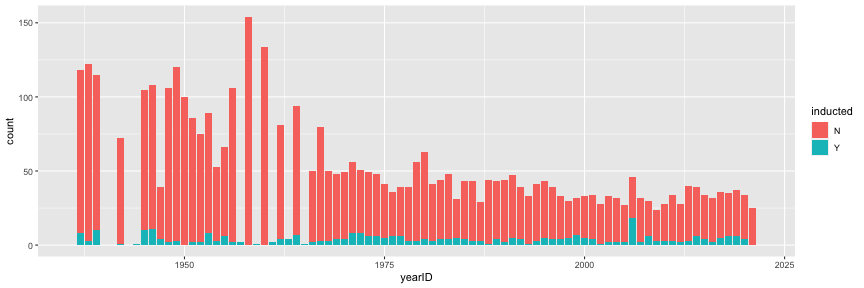
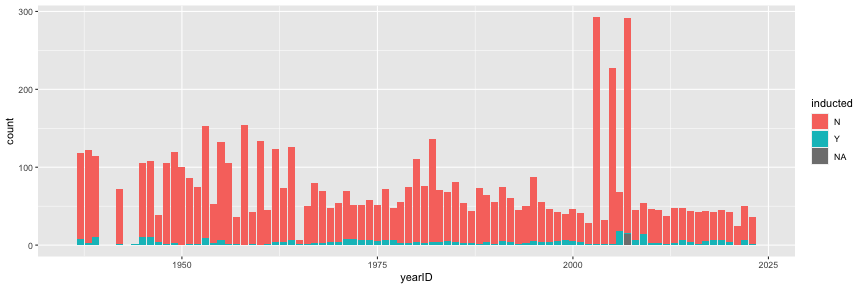
update lab 4

diff --git a/lab04.html b/lab04.html
@@ -1,7 +1,7 @@
 <!DOCTYPE html>
 <html lang="" xml:lang="">
   <head>
-    <title>DS 202 - lab #4: Scraping (into) the Hall of Fame</title>
+    <title>DS 2020 - lab #4: Scraping (into) the Hall of Fame</title>
     <meta charset="utf-8" />
     <meta name="author" content="Will Ju" />
     <script src="libs/header-attrs-2.25/header-attrs.js"></script>
@@ -13,7 +13,7 @@
 class: center, middle, inverse, title-slide
 
 .title[
-# DS 202 - lab #4: Scraping (into) the Hall of Fame
+# DS 2020 - lab #4: Scraping (into) the Hall of Fame
 ]
 .author[
 ### Will Ju
@@ -33,7 +33,7 @@ background-image: url(images/hof.jpg)
 
 # Big Picture Goal
 
-We are going to contribute an extension of the Hall of Fame data in the Lahman data package for the year 2024.
+We are going to contribute an extension of the Hall of Fame data in the Lahman data package for the year 2025.
 
 # Step-by-Step
 
@@ -46,7 +46,7 @@ In this activity we are going to
     b. and - as much as possible - clean the data automatically, or at least identify potential problems, to, finally, 
     c. use the scrapers in future years
     
-3. use the scraper to get data for the year 2024.
+3. use the scraper to get data for the year 2025.
 4. document the process. 
 
 The deliverables are (1) individual reports (Rmd) and (2) the dataset.
@@ -57,8 +57,7 @@ The deliverables are (1) individual reports (Rmd) and (2) the dataset.
 
 1. Identify your team! Go to Canvas and find out which team you are in for Lab 4.
 
-2. If you are participating remotely, find your teammates via Slack / email. You can use any platform for collaboration that works for you all (Microsoft Teams, discord, WebEx, Zoom, etc)
-If you are in the classroom, find the other members of your team and sit with them.
+2. Find the other members of your team and sit with them.
 
 3. Introduce yourself to each other. 
 
@@ -76,11 +75,11 @@ If you are in the classroom, find the other members of your team and sit with th
 
 2. Start a new RStudio project on your local machine using the link to the github repository. (Connect your local R project to your Github repo)
 
-3. Create a new RMarkdown file called `progress-report-&lt;your github handle&gt;.Rmd` (Mine would be called `progress-report-willju-wangqian.Rmd`). Delete everything from line 12 on. 
+3. For each individual, create a new RMarkdown file called `progress-report-&lt;your github handle&gt;.Rmd` (Mine would be called `progress-report-willju-wangqian.Rmd`). Delete everything from line 12 on. 
 
 4. Save the file and add it to your github repository. 
 
-5. Use this RMarkdown file for your lab notes - every individual should try to scrape the dataset. Keep track of what you are doing in your own Rmd file, so you have an easier time afterward to see what worked and what didn't.
+5. Use your created RMarkdown file for your lab notes - every individual should try to scrape the dataset. Keep track of what you are doing in your own Rmd file, so you have an easier time afterward to see what worked and what didn't.
 
 4. Commit the file and push. We are ready to roll!
 
@@ -91,15 +90,15 @@ If you are in the classroom, find the other members of your team and sit with th
 
 The Lahman data package is based on [Sean Lahman](https://www.seanlahman.com/)'s  Baseball  [Database](https://www.seanlahman.com/baseball-archive/statistics/). 
 
-The `HallOfFame` table is a part of this set of tables and has data up to 2022. We have tried to scrape the 2023 data during our lectures. Now, we are aiming for the 2024 data.
+The `HallOfFame` table is a part of this set of tables and has data up to 2024. We have tried to scrape the 2023 data during our lectures. Now, we are aiming for the 2025 data.
 
 ## Baseball Reference 
 
 The site baseball-reference.com has grown out of Sean Lahman's work and is now maintained independently. 
 
-Incidentally, it also has tables with Hall of Fame information, e.g. for 2024: 
+Incidentally, it also has tables with Hall of Fame information, e.g. for 2025: 
 
-https://www.baseball-reference.com/awards/hof_2024.shtml
+https://www.baseball-reference.com/awards/hof_2025.shtml
 
 ---
 # Scrape the data
@@ -118,24 +117,24 @@ head(HallOfFame, 3)
 
 ```
 ##    playerID yearID votedBy ballots needed votes inducted category needed_note
-## 1  cobbty01   1936   BBWAA     226    170   222        Y   Player        &lt;NA&gt;
-## 2  ruthba01   1936   BBWAA     226    170   215        Y   Player        &lt;NA&gt;
-## 3 wagneho01   1936   BBWAA     226    170   215        Y   Player        &lt;NA&gt;
+## 1 aaronha01   1982   BBWAA     415    312   406        Y   Player        &lt;NA&gt;
+## 2 abbotji01   2005   BBWAA     516    387    13        N   Player        &lt;NA&gt;
+## 3 abreubo01   2020   BBWAA     397    298    22        N   Player        &lt;NA&gt;
 ```
 ---
 
 # Deliverable: data
 
-As a team, create the Hall of fame data for the year 2024. Each of you might result in a dataset. Compared your results in the team and select one as your final result.
+As a team, create the Hall of fame data for the year 2025. Each of you might result in a dataset. Compared your results in the team and select one as your final result.
 
-Save the result by appending the new data frame(s) to the existing data `HallOfFame` in `Lahman` package.
+Save this final result by appending the new data frame(s) (your cleaned scraped data) to the existing data `HallOfFame` in `Lahman` package.
 
 
 ```r
 HallOfFame %&gt;% 
   ggplot(aes(x = yearID, fill = inducted)) +
   geom_bar() +
-  xlim(c(1936, 2022))
+  xlim(c(1936, 2024))
 ```
 
 ![](lab04_files/figure-html/unnamed-chunk-2-1.png)&lt;!-- --&gt;
@@ -155,7 +154,7 @@ HallOfFame %&gt;%
 
 ```r
 library(rvest)
-url &lt;- "https://www.baseball-reference.com/awards/hof_2024.shtml"
+url &lt;- "https://www.baseball-reference.com/awards/hof_2025.shtml"
 html &lt;- read_html(url)
 tables &lt;- html_table(html)
 ```
@@ -172,8 +171,8 @@ head(tables[[1]], 3)
 ##   ``    ``           ``    ``    ``    ``    ``    ``    ``    ``    ``    ``   
 ##   &lt;chr&gt; &lt;chr&gt;        &lt;chr&gt; &lt;chr&gt; &lt;chr&gt; &lt;chr&gt; &lt;chr&gt; &lt;chr&gt; &lt;chr&gt; &lt;chr&gt; &lt;chr&gt; &lt;chr&gt;
 ## 1 Rk    Name         YoB   Votes %vote HOFm  HOFs  Yrs   WAR   WAR7  JAWS  Jpos 
-## 2 1     Adrian Belt… 1st   366   95.1% 163   55    21    93.5  48.7  71.1  56.3 
-## 3 2     Todd Helton  6th   307   79.7% 175   59    17    61.8  46.6  54.2  53.4 
+## 2 1     Ichiro Suzu… 1st   393   99.7% 235   44    19    60.0  43.7  51.8  56.0 
+## 3 2     CC Sabathia  1st   342   86.8% 128   48    19    62.3  39.4  50.8  61.3 
 ## # ℹ 27 more variables: `Batting Stats` &lt;chr&gt;, `Batting Stats` &lt;chr&gt;,
 ## #   `Batting Stats` &lt;chr&gt;, `Batting Stats` &lt;chr&gt;, `Batting Stats` &lt;chr&gt;,
 ## #   `Batting Stats` &lt;chr&gt;, `Batting Stats` &lt;chr&gt;, `Batting Stats` &lt;chr&gt;,
@@ -186,7 +185,7 @@ head(tables[[1]], 3)
 
 # Variable Names in Line 1
 
-Write the dataset into a temporary file, and read the data back in (using the command `read_csv`) and skipping the first line:
+&lt;!-- Write the dataset into a temporary file, and read the data back in (using the command `read_csv`) and skipping the first line: --&gt;
 
 Obtain the column names from the first line as a variable. Overwrite the column names with the actual column names. Then delete the first line.
 
@@ -302,7 +301,7 @@ readr::write_csv(dframe, file="some-other-file.csv")
 ---
 
 
-Due date: You have time until Monday, Dec 9 at 11:59 pm to submit the final RMmarkdown file.
+Due date: You have time until Monday, Apr 28 at 11:59 pm to submit the final RMmarkdown file.
 
 One team member: upload the team's repo link to Canvas (just to signal to the instructor that you are done)
     </textarea>
